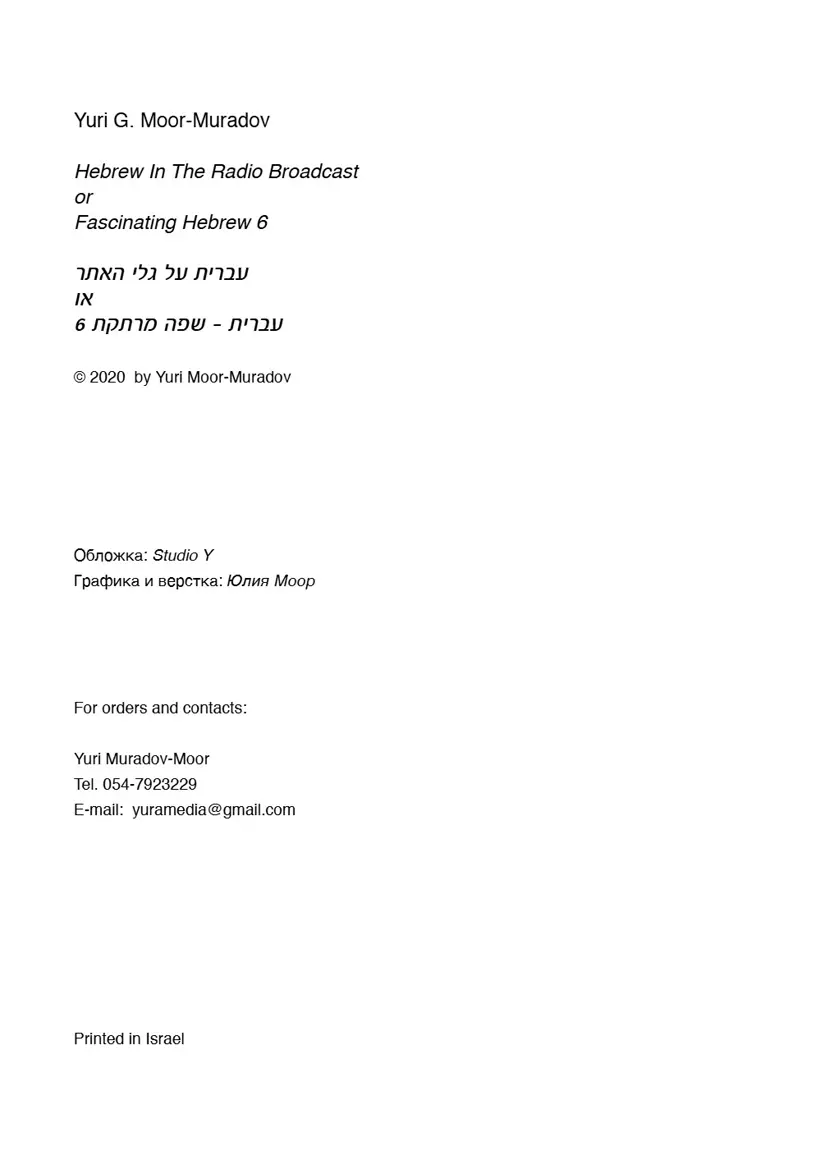
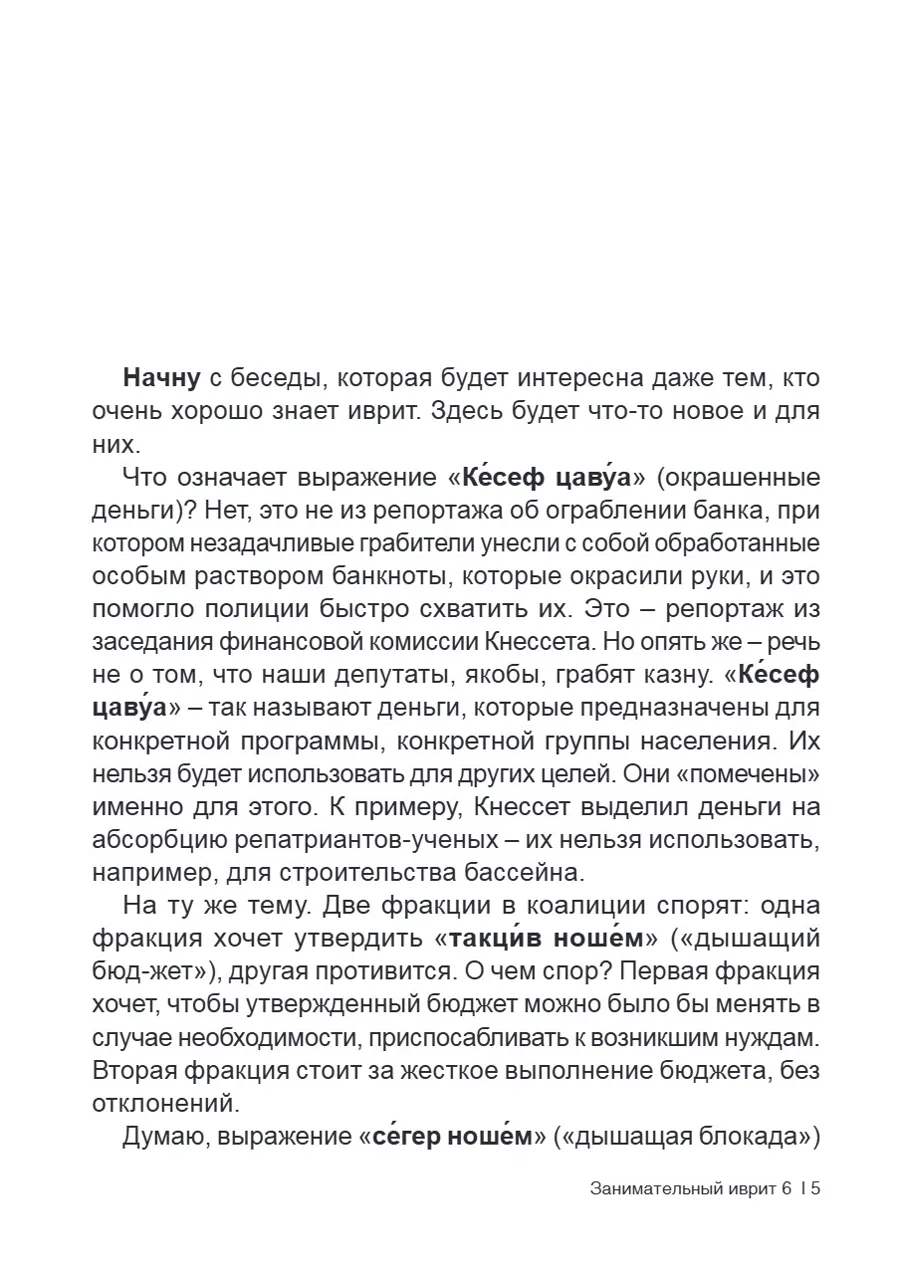
Нюансы иврита: real cover, spine, excerpt, digital copy; Иврит в эфире: real excerpt pages

Changed region(s): [[0.0915, 0.0931, 0.9146, 0.9], [0.6707, 0.931, 0.9146, 0.9621]]

diff --git a/assets/books.js b/assets/books.js
@@ -17,8 +17,8 @@ window.BOOKS = [
   { id:'z1', series:'hebrew', vol:1, title:'Занимательный иврит', cover:'z1', spine:'z1', pages:4, pdf:true, tone:'#1f6fb0',
     text:['Книга, с которой началась серия. Написанная лёгким языком, она лишена назидательности учебника и в то же время служит справочником по многим вопросам языка.',
           'Пословицы, идиомы, поговорки: всё для того, чтобы изящно изъясняться на иврите. А тонкий, ненавязчивый юмор автора превращает чтение в удовольствие.'] },
-  { id:'z2', series:'hebrew', vol:2, title:'Нюансы иврита', or:'Занимательный иврит 2', cover:null, spine:null, pages:0, pdf:false, tone:'#2c5f8f',
-    text:['Вторая книга серии «Занимательный иврит». Её сфера: нюансы, оттенки и тонкости языка, на которых спотыкаются даже те, кто давно говорит на иврите.'] },
+  { id:'z2', series:'hebrew', vol:2, title:'Нюансы иврита', or:'Занимательный иврит 2', cover:'z2', spine:'z2', pages:4, pdf:true, tone:'#1f6fb0',
+    text:['Вторая книга серии «Занимательный иврит». Весьма полезная и практичная: в ней много идиом, пословиц и распространённых сленговых выражений.','Написана в том же стиле, что и первая книга: лёгкий язык и мягкий, ненавязчивый юмор.'] },
   { id:'z3', series:'hebrew', vol:3, title:'Прогулки с ивритом', or:'Занимательный иврит 3', cover:'z3', spine:'z3', pages:4, pdf:true, tone:'#2b3f8f',
     text:['Как сказать на иврите «Сердце ёкнуло»? А как «Шмыгнул носом»? Казалось бы, простые выражения, но словари здесь не помогут.',
           'Книга выросла из рубрики «Прогулки с ивритом» в газете «Новости недели», которую читатели не могли отложить.'] },
